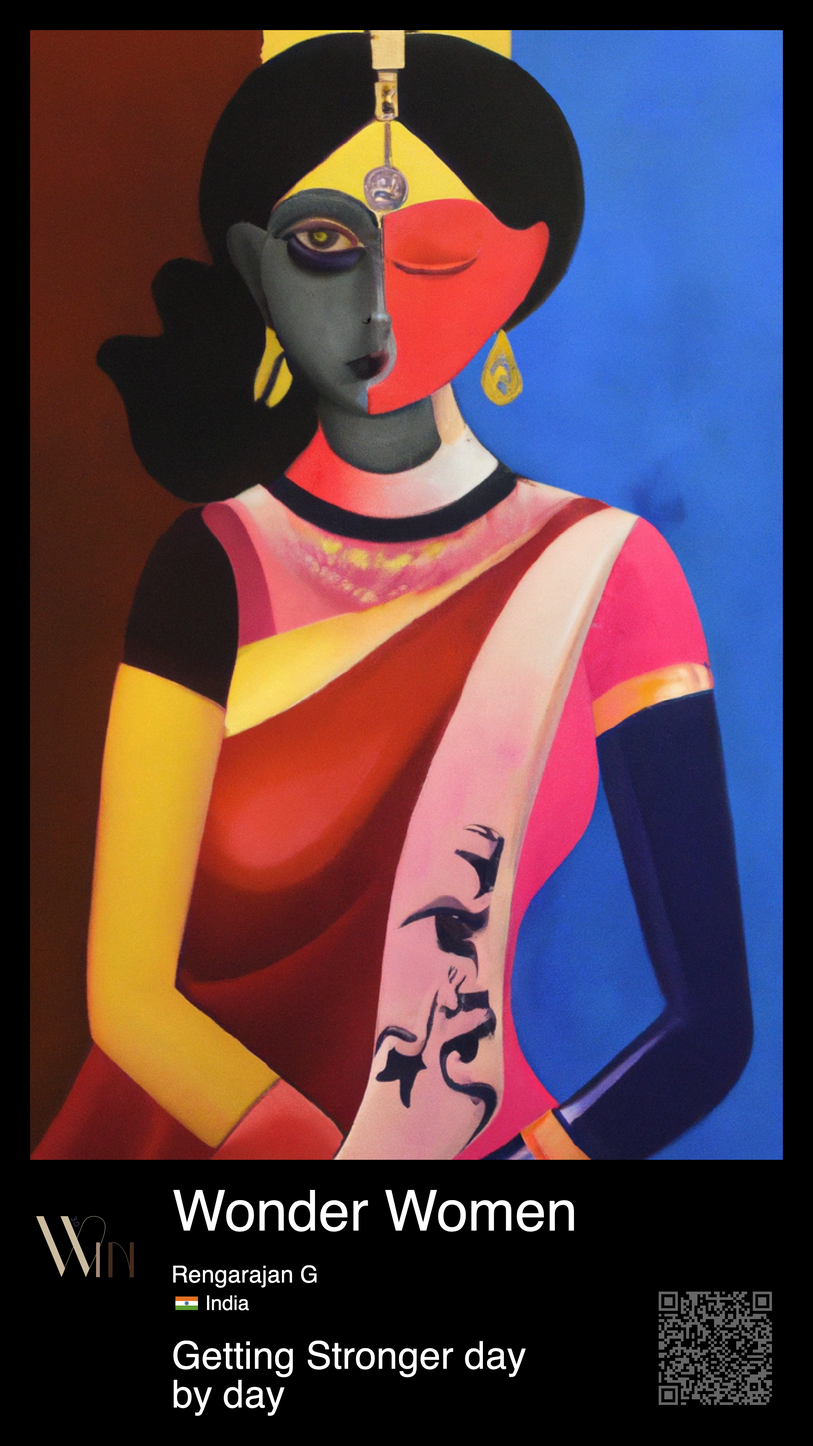
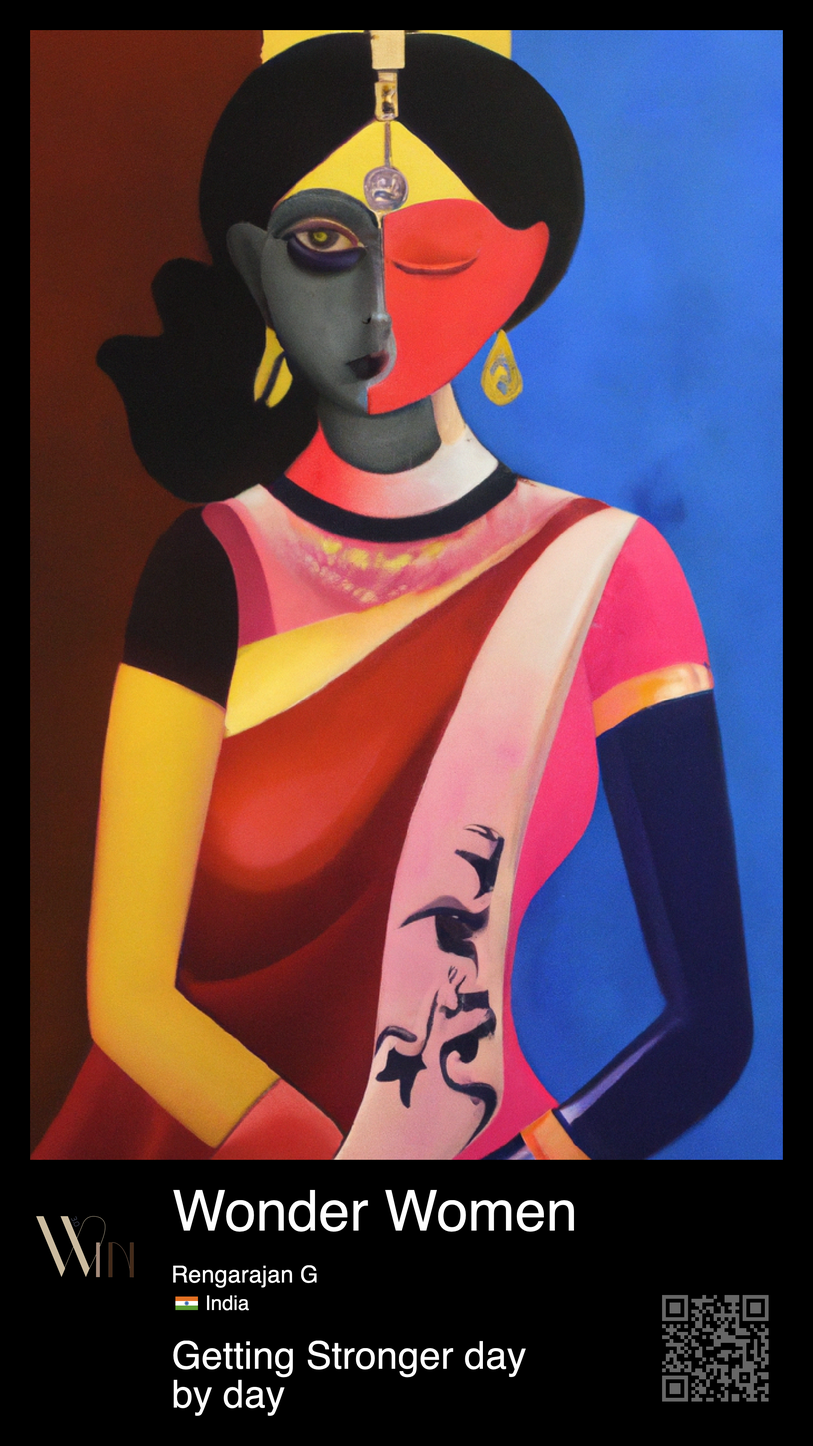
Change win QRCode

Changed region(s): [[0.8065, 0.875, 0.9616, 0.9688]]

diff --git a/generate/assetgen.js b/generate/assetgen.js
@@ -146,7 +146,8 @@ class AssetGen {
             }
 
             const qrCodeFile = path.join(options.tmpDir, options.account + '.png');
-            await QRCode.toFile(qrCodeFile, globals.WEB_URL + '?id=' + options.project + globals.ID_SEPARATOR + options.account, {width: globals.GUTTER * .6, color: { light: '#000000', dark: '#666666'}});
+            await QRCode.toFile(qrCodeFile, "https://winweb3.io/how-to-donate/", {width: globals.GUTTER * .6, color: { light: '#000000', dark: '#666666'}});
+//            await QRCode.toFile(qrCodeFile, globals.WEB_URL + '?id=' + options.project + globals.ID_SEPARATOR + options.account, {width: globals.GUTTER * .6, color: { light: '#000000', dark: '#666666'}});
             overlays.push({
                 input: qrCodeFile,
                 top: isLandscape ? globals.UHD_HEIGHT - globals.GUTTER * .6 - globals.MARGIN : globals.UHD_WIDTH - globals.GUTTER * .6 - globals.MARGIN,
